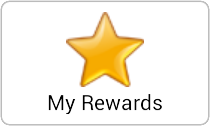
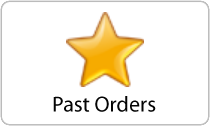
Added new Ui for Welcome screen and past orders
git-svn-id: http://192.168.2.90/svn/bartsy-ios/bartsy-ios@79 c3b44e55-a100-42f6-9c86-32dbf579054b

Changed region(s): [[0.2286, 0.7381, 0.7714, 0.9048]]

diff --git a/Bartsy/HomeViewController.m b/Bartsy/HomeViewController.m
@@ -818,21 +818,30 @@
     }
     else if (isSelectedForPastOrders == YES)
     {
-        UILabel *lblItemName = [self createLabelWithTitle:[[arrPastOrders objectAtIndex:indexPath.row] objectForKey:@"itemName"] frame:CGRectMake(10, 0, 250, 40) tag:0 font:[UIFont boldSystemFontOfSize:13] color:[UIColor blackColor] numberOfLines:1];
-        lblItemName.backgroundColor=[UIColor clearColor];
-        lblItemName.textAlignment = NSTextAlignmentLeft;
-        [cell.contentView addSubview:lblItemName];
+        if ([arrPastOrders count]) {
+            UILabel *lblItemName = [self createLabelWithTitle:[[arrPastOrders objectAtIndex:indexPath.row] objectForKey:@"itemName"] frame:CGRectMake(10, 0, 250, 40) tag:0 font:[UIFont boldSystemFontOfSize:13] color:[UIColor blackColor] numberOfLines:1];
+            lblItemName.backgroundColor=[UIColor clearColor];
+            lblItemName.textAlignment = NSTextAlignmentLeft;
+            [cell.contentView addSubview:lblItemName];
+            
+            UILabel *lbldescription = [self createLabelWithTitle:[[arrPastOrders objectAtIndex:indexPath.row] objectForKey:@"description"] frame:CGRectMake(10, 25, 250, 40) tag:0 font:[UIFont boldSystemFontOfSize:13] color:[UIColor grayColor] numberOfLines:1];
+            lbldescription.backgroundColor=[UIColor clearColor];
+            lbldescription.textAlignment = NSTextAlignmentLeft;
+            [cell.contentView addSubview:lbldescription];
+            NSString *stringFortotalPrice = [NSString stringWithFormat:@"%.2f",[[[arrPastOrders objectAtIndex:indexPath.row] objectForKey:@"totalPrice"] floatValue]];
+            
+            UILabel *lblTotalPrice = [self createLabelWithTitle:stringFortotalPrice frame:CGRectMake(270, -5, 200, 40) tag:0 font:[UIFont boldSystemFontOfSize:13] color:[UIColor blackColor] numberOfLines:1];
+            lblTotalPrice.backgroundColor=[UIColor clearColor];
+            lblTotalPrice.textAlignment = NSTextAlignmentLeft;
+            [cell.contentView addSubview:lblTotalPrice];
+
+        }
+        else
+        {
+            cell.textLabel.text=@"No past orders\nGo to the drinks tab to place some\nGo to menu for Past Orders...";
+            cell.textLabel.numberOfLines=5;
+        }
         
-        UILabel *lbldescription = [self createLabelWithTitle:[[arrPastOrders objectAtIndex:indexPath.row] objectForKey:@"description"] frame:CGRectMake(10, 25, 250, 40) tag:0 font:[UIFont boldSystemFontOfSize:13] color:[UIColor grayColor] numberOfLines:1];
-        lbldescription.backgroundColor=[UIColor clearColor];
-        lbldescription.textAlignment = NSTextAlignmentLeft;
-        [cell.contentView addSubview:lbldescription];
-        NSString *stringFortotalPrice = [NSString stringWithFormat:@"%.2f",[[[arrPastOrders objectAtIndex:indexPath.row] objectForKey:@"totalPrice"] floatValue]];
-        
-        UILabel *lblTotalPrice = [self createLabelWithTitle:stringFortotalPrice frame:CGRectMake(270, -5, 200, 40) tag:0 font:[UIFont boldSystemFontOfSize:13] color:[UIColor blackColor] numberOfLines:1];
-        lblTotalPrice.backgroundColor=[UIColor clearColor];
-        lblTotalPrice.textAlignment = NSTextAlignmentLeft;
-        [cell.contentView addSubview:lblTotalPrice];
     }
     else
     {

diff --git a/Bartsy/WelcomeViewController.m b/Bartsy/WelcomeViewController.m
@@ -85,7 +85,7 @@
     
     UIButton *btnVenue=[self createUIButtonWithTitle:@"" image:nil frame:CGRectMake(5, 60, 260, 40) tag:0 selector:@selector(btnCheckIn_TouchUpInside) target:self];
     [self.view addSubview:btnVenue];
-    
+/*
     UIImageView *imgViewCheckInBox2=[self createImageViewWithImage:[UIImage imageNamed:@"box.png"] frame:CGRectMake(5, 110, 310, 44) tag:0];
     [self.view addSubview:imgViewCheckInBox2];
     
@@ -141,7 +141,18 @@
     UILabel *lblComment=[self createLabelWithTitle:@"Send us praise,comments or suggestions" frame:CGRectMake(55, 0, 280, 40) tag:0 font:[UIFont systemFontOfSize:13] color:[UIColor blackColor] numberOfLines:1];
     [imgViewCheckInBox4 addSubview:lblComment];
     
+*/
     
+    UIButton *btnNearBy=[self createUIButtonWithTitle:@"" image:[UIImage imageNamed:@"pic1.png"] frame:CGRectMake(90, 120, 140, 85) tag:222 selector:@selector(btn_TouchUpInside:) target:self];
+    [self.view addSubview:btnNearBy];
+    
+    UIButton *btnMyRewards=[self createUIButtonWithTitle:@"" image:[UIImage imageNamed:@"pic4.png"] frame:CGRectMake(90, 220, 140, 85) tag:444 selector:@selector(btn_TouchUpInside:) target:self];
+    [self.view addSubview:btnMyRewards];
+    
+    UIButton *btnProfile=[self createUIButtonWithTitle:@"" image:[UIImage imageNamed:@"pic3.png"] frame:CGRectMake(90, 320, 140, 85) tag:555 selector:@selector(btn_TouchUpInside:) target:self];
+    [self.view addSubview:btnProfile];
+    
+
     UILabel *lblCopyRight=[self createLabelWithTitle:@"Bartsy is Copyright (C) Vendsy,Inc. All rights reserved." frame:CGRectMake(0, 435, 320, 25) tag:0 font:[UIFont systemFontOfSize:11] color:[UIColor blackColor] numberOfLines:1];
     lblCopyRight.textAlignment=NSTextAlignmentCenter;
     [self.view addSubview:lblCopyRight];

diff --git a/Bartsy/MyRewardsViewController.m b/Bartsy/MyRewardsViewController.m
@@ -21,6 +21,7 @@
 }
 @end
 
+
 @implementation MyRewardsViewController
 
 - (id)initWithNibName:(NSString *)nibNameOrNil bundle:(NSBundle *)nibBundleOrNil
@@ -31,6 +32,7 @@
     }
     return self;
 }
+#pragma mark- View Life cycle
 
 - (void)viewDidLoad
 {
@@ -123,11 +125,15 @@
     NSLog(@"text is %@,%@,%@",txtFldStartIndex.text,txtFldResults.text,lblDateValue.text);
 
     [self createProgressViewToParentView:self.view withTitle:@"Loading..."];
-    [self.sharedController getPastOrderWithVenueWithId:[[NSUserDefaults standardUserDefaults]objectForKey:@"CheckInVenueId"] bartsyId:[[NSUserDefaults standardUserDefaults]objectForKey:@"bartsyId"] date:lblDateValue.text delegate:self];
+    [self.sharedController getPastOrderWithVenueWithId:nil bartsyId:[[NSUserDefaults standardUserDefaults]objectForKey:@"bartsyId"] date:lblDateValue.text delegate:self];
     
 }
+#pragma mark- Shared controller delegates
+
 -(void)controllerDidFinishLoadingWithResult:(id)result
 {
+    [self hideProgressView:nil];
+
     if ([[result objectForKey:@"errorCode"] integerValue]==0)
     {
         PastOrdersViewController *obj = [[PastOrdersViewController alloc] init];
@@ -142,10 +148,12 @@
     [self hideProgressView:nil];
 
 }
+#pragma mark- Showing Picker view 
+
 -(void)designPickerView:(NSString*)type
 {
     [UIView beginAnimations:nil context:NULL];
-    [UIView setAnimationDuration:0.5];
+    [UIView setAnimationDuration:0.2];
     customPickerView.center =CGPointMake(160,700);
     [UIView commitAnimations];
     

diff --git a/Bartsy/SharedController.m b/Bartsy/SharedController.m
@@ -688,8 +688,10 @@ static SharedController *sharedController;
     [dictCheckIn setValue:KAPIVersionNumber forKey:@"apiVersion"];
     if(date!=nil&&[date length])
     [dictCheckIn setObject:date forKey:@"date"];
-    [dictCheckIn setObject:[[NSUserDefaults standardUserDefaults]objectForKey:@"bartsyId"] forKey:@"bartsyId"];
-    [dictCheckIn setObject:[[NSUserDefaults standardUserDefaults]objectForKey:@"CheckInVenueId"] forKey:@"venueId"];
+    [dictCheckIn setObject:strbartsyId forKey:@"bartsyId"];
+    if (strVenueId!=nil) {
+        [dictCheckIn setObject:[[NSUserDefaults standardUserDefaults]objectForKey:@"CheckInVenueId"] forKey:@"venueId"];
+    }
 
     NSLog(@"dict is %@",dictCheckIn);
     SBJSON *jsonObj=[SBJSON new];

diff --git a/Bartsy/PastOrdersViewController.m b/Bartsy/PastOrdersViewController.m
@@ -78,6 +78,10 @@
 
     return cell;
 }
+- (void)tableView:(UITableView *)tableView didSelectRowAtIndexPath:(NSIndexPath *)indexPath;
+{
+    [tableView deselectRowAtIndexPath:indexPath animated:YES];
+}
 - (CGFloat)tableView:(UITableView *)tableView heightForRowAtIndexPath:(NSIndexPath *)indexPath;
 {
     return 65;
